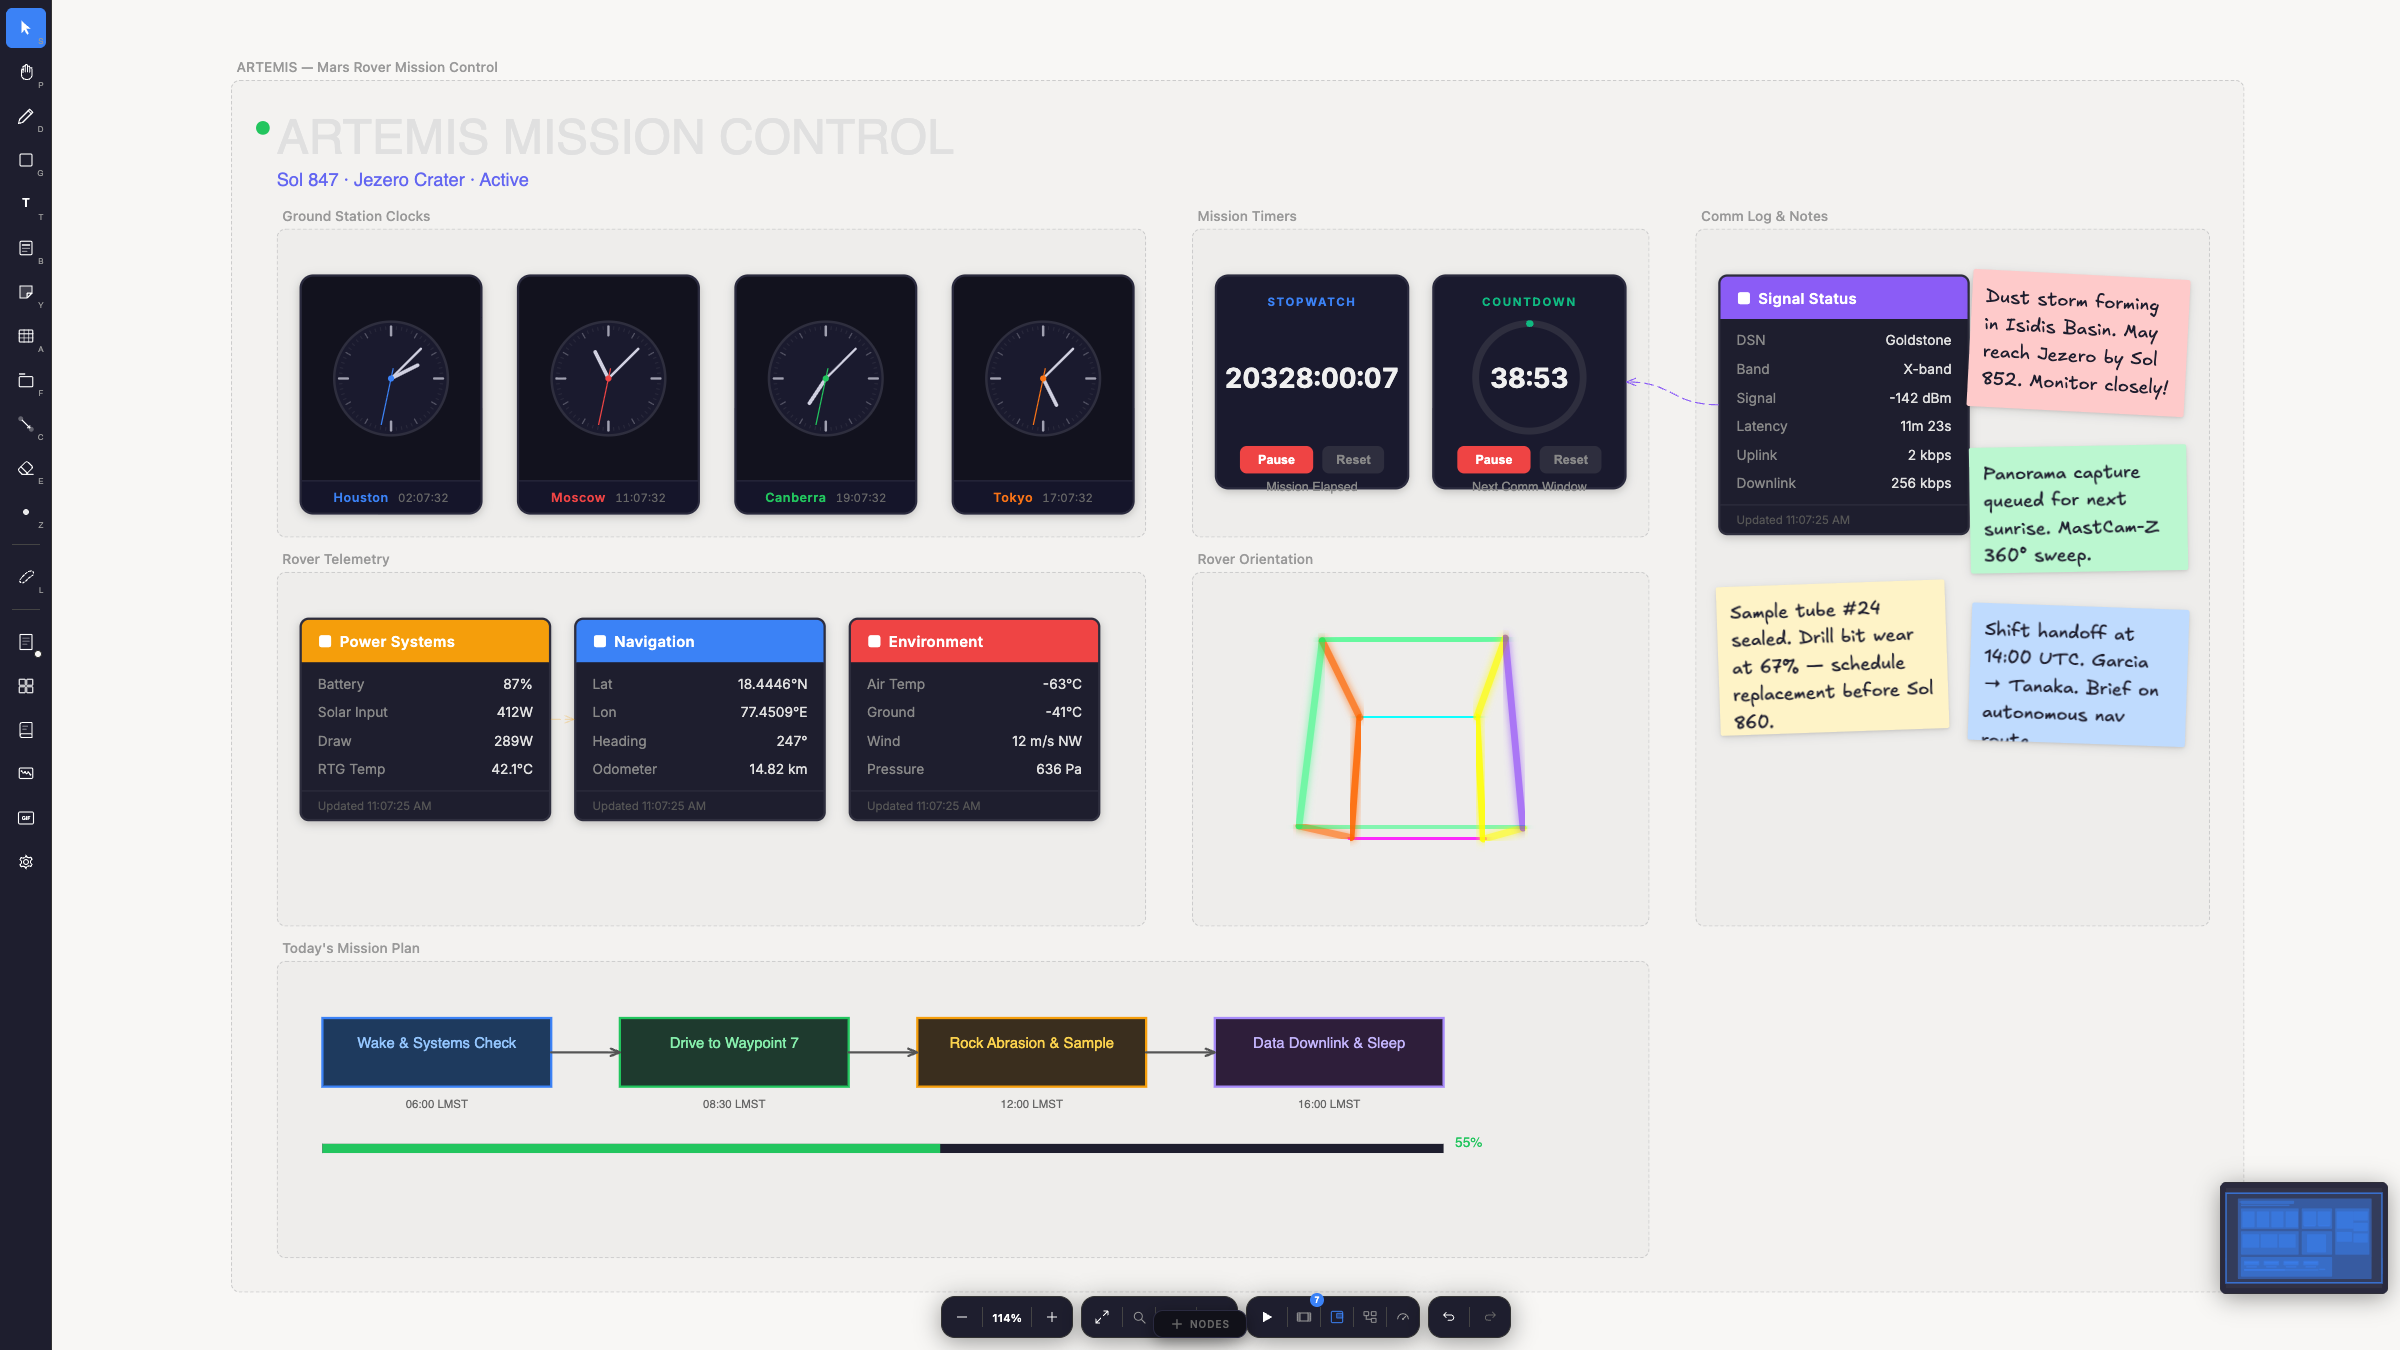
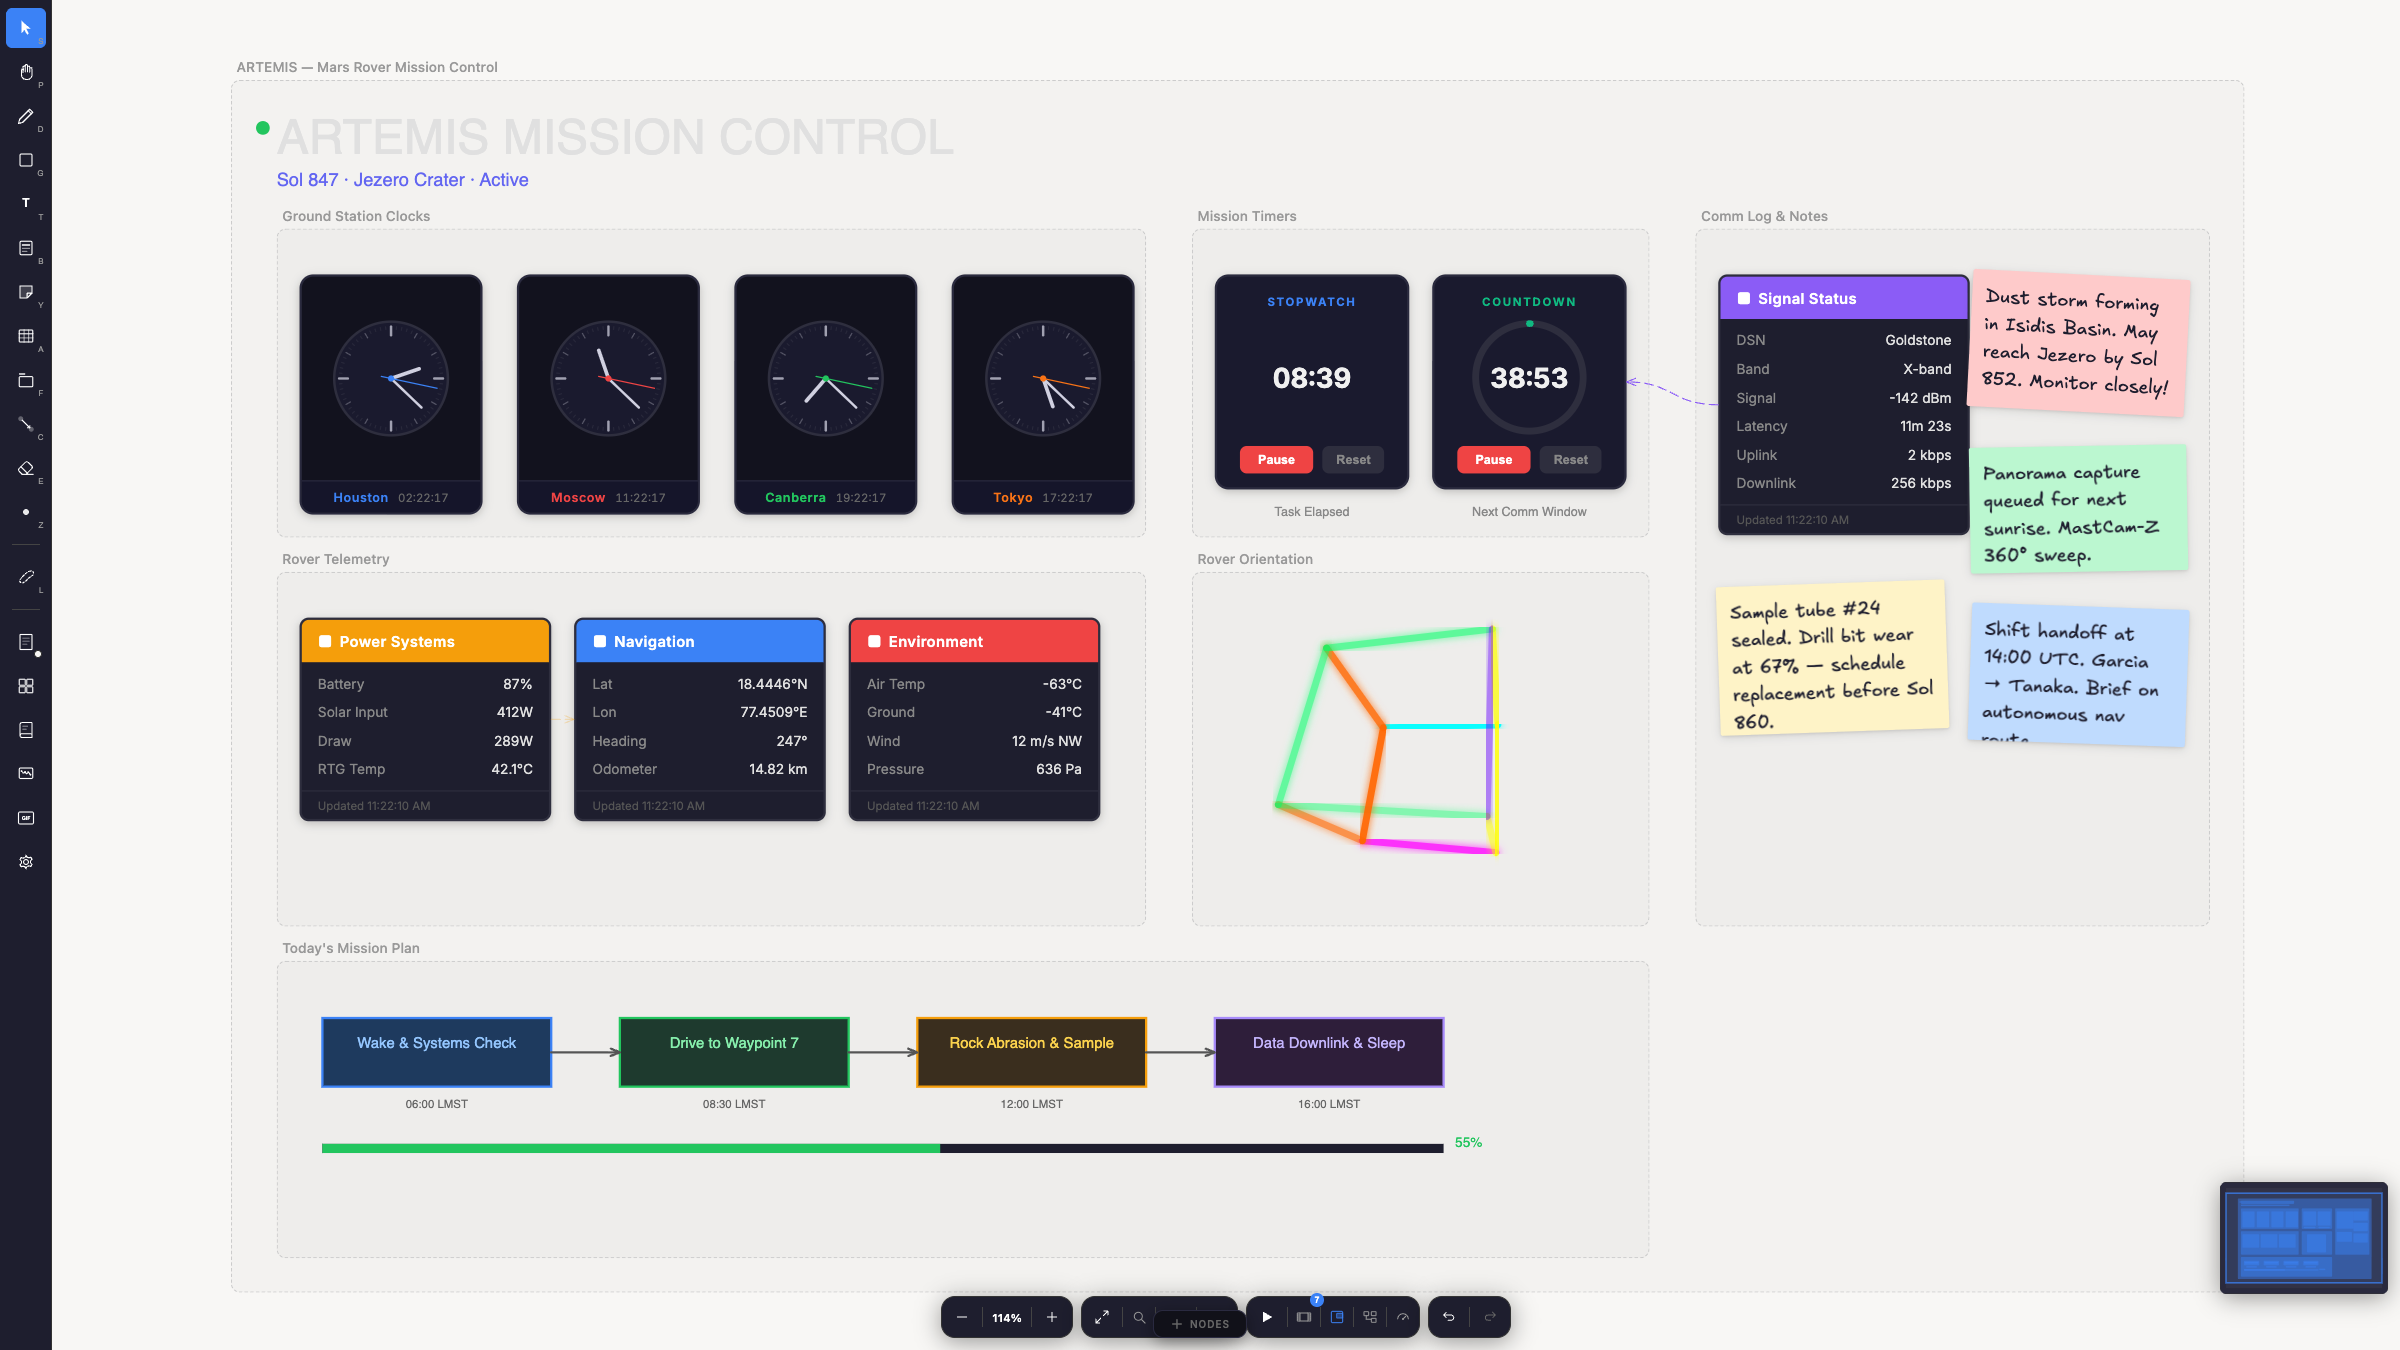
fix(spatialboard): mission control timers; drop comparison table from README
The Mission Control exemplar seeded the stopwatch with ~847 sols of elapsed
time, rendering an unreadable 20328:00:07, and the two timer captions sat at
y=370 where the timer cards still overlapped them. Seed a short task duration
instead, drop the captions to y=392, and rename "Mission Elapsed" to "Task
Elapsed" so the caption matches what a minutes-scale timer measures. Refresh
the README hero to match.

diff --git a/examples/dev-app/src/exemplars/mission-control.ts b/examples/dev-app/src/exemplars/mission-control.ts
@@ -226,7 +226,7 @@ export function loadMissionControlBoard(engine: SpatialEngine): void {
     data: {
       mode: "stopwatch",
       targetSeconds: 0,
-      elapsed: 73180800, // ~847 sols in seconds (approximate)
+      elapsed: 512, // a few minutes into the current activity
       running: true,
       accentColor: "#3b82f6",
     } satisfies TimerData,
@@ -253,12 +253,12 @@ export function loadMissionControlBoard(engine: SpatialEngine): void {
     id: "label-mission-timer",
     type: "text",
     x: 890,
-    y: 370,
+    y: 392,
     w: 150,
     h: "auto",
     z: z++,
     data: {
-      text: "Mission Elapsed",
+      text: "Task Elapsed",
       fontSize: 11,
       fontFamily: "ui-sans-serif, system-ui, sans-serif",
       color: "#888",
@@ -270,7 +270,7 @@ export function loadMissionControlBoard(engine: SpatialEngine): void {
     id: "label-comms-timer",
     type: "text",
     x: 1080,
-    y: 370,
+    y: 392,
     w: 150,
     h: "auto",
     z: z++,

diff --git a/README.md b/README.md
@@ -180,30 +180,6 @@ Round-trip with `await engine.toSBD()` / `await engine.fromSBD(text)`. The
 lower-level functions are `serializeToSBD(nodes)` and `parseSBD(text)` (which
 returns `{ nodes, meta, warnings }`). Spec in [sbd-spec.md](sbd-spec.md).
 
-## How it compares
-
-Excalidraw and tldraw are excellent, mature projects — if you need a pure
-whiteboard with a huge ecosystem, or a polished commercial canvas SDK, use
-them. SpatialBoard's niche is combining the whiteboard with typed data flow,
-built-in presentations, and an agent-first API, under a plain MIT license:
-
-| | SpatialBoard | Excalidraw | tldraw |
-|---|---|---|---|
-| **License** | MIT | MIT | tldraw license — production needs a license key; free hobby tier keeps the watermark, paid removes it |
-| **Custom nodes** | First-class: plain React component + declarative definition (typed `data`, panels, lifecycle hooks) | Not a public extension point of the core package | First-class (`ShapeUtil` classes) |
-| **Typed ports + reactive data flow** | Built in (`ports` + `compute`, cycle detection, live edge values) | — | Build your own on shapes |
-| **Presentations** | Built in: frames → slides with animated transitions (incl. 3D cube/fold) | Frames + laser pointer (slides are an Excalidraw+ feature) | Build your own |
-| **Headless / non-React use** | `spatialboard/engine` — no React, no CSS | — | State/store usable standalone; canvas requires React |
-| **Rich text** | BlockNote block-editor nodes | Plain text elements | Rich-text shapes |
-| **Interchange format** | SBD — markdown-compatible, diff-stable, LLM-writable — plus JSON | JSON (`.excalidraw`) | JSON (`.tldr`) |
-| **Agent / LLM API** | Built in: budgeted state snapshots, markdown summaries, node-type catalog, one-call create API | Text-to-diagram in Excalidraw+ | Agent starter kits + driver package |
-| **Rendering** | React DOM + SVG layers | Canvas2D | React DOM |
-| **Collaboration** | Transport-agnostic primitives (remote ops + gesture awareness) — bring your own CRDT/sync | excalidraw-room; E2E rooms on excalidraw.com | tldraw sync (self-hosted; demo server for prototyping) |
-| **Excalidraw interop** | Imports `.excalidrawlib` libraries | Native | — |
-
-(License and feature notes as of mid-2026 — verify against each project's
-current docs before making decisions based on them.)
-
 ## Documentation
 
 | Guide | What's inside |
